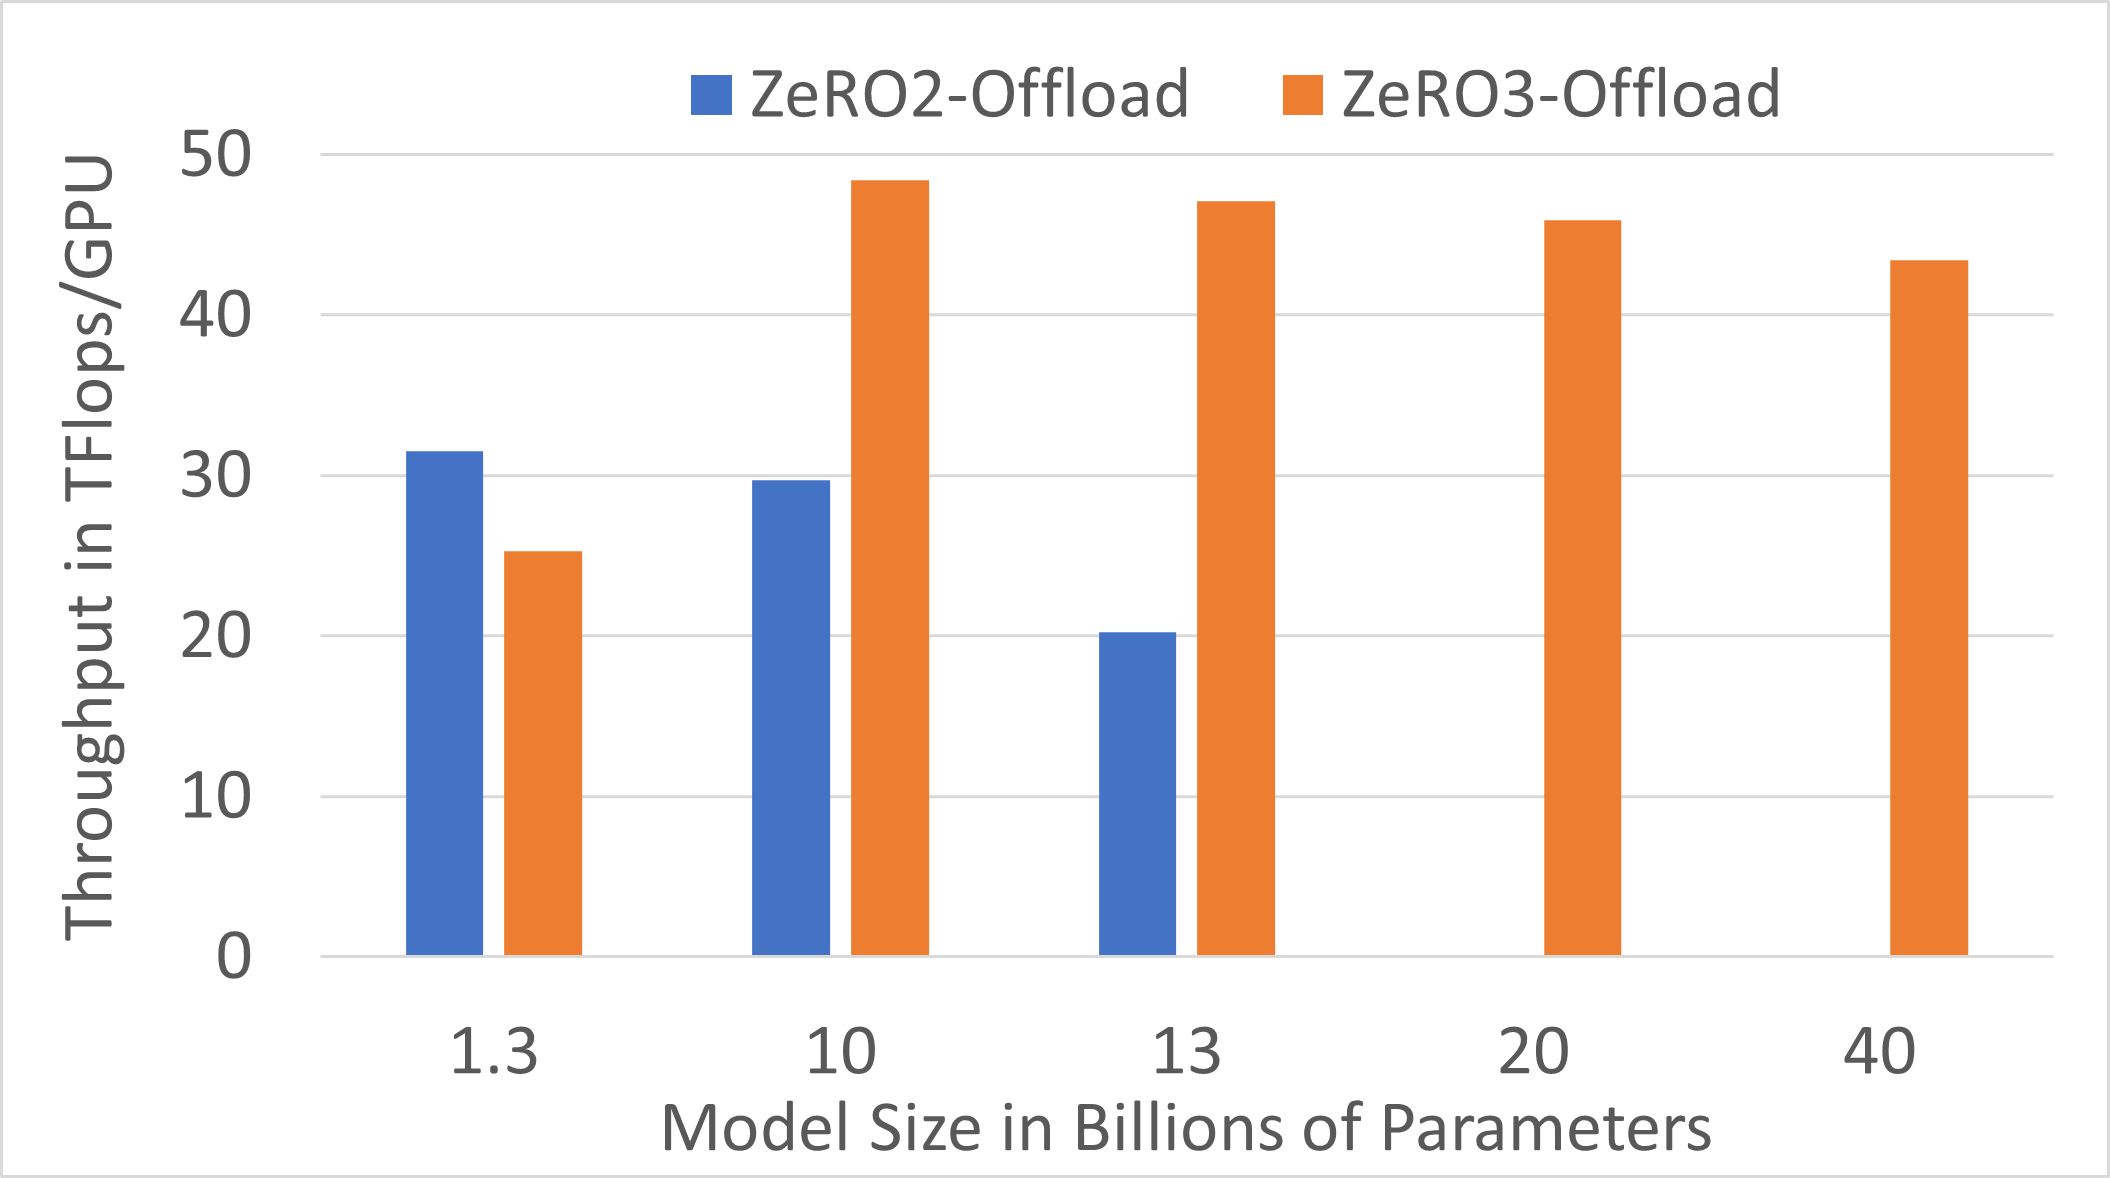
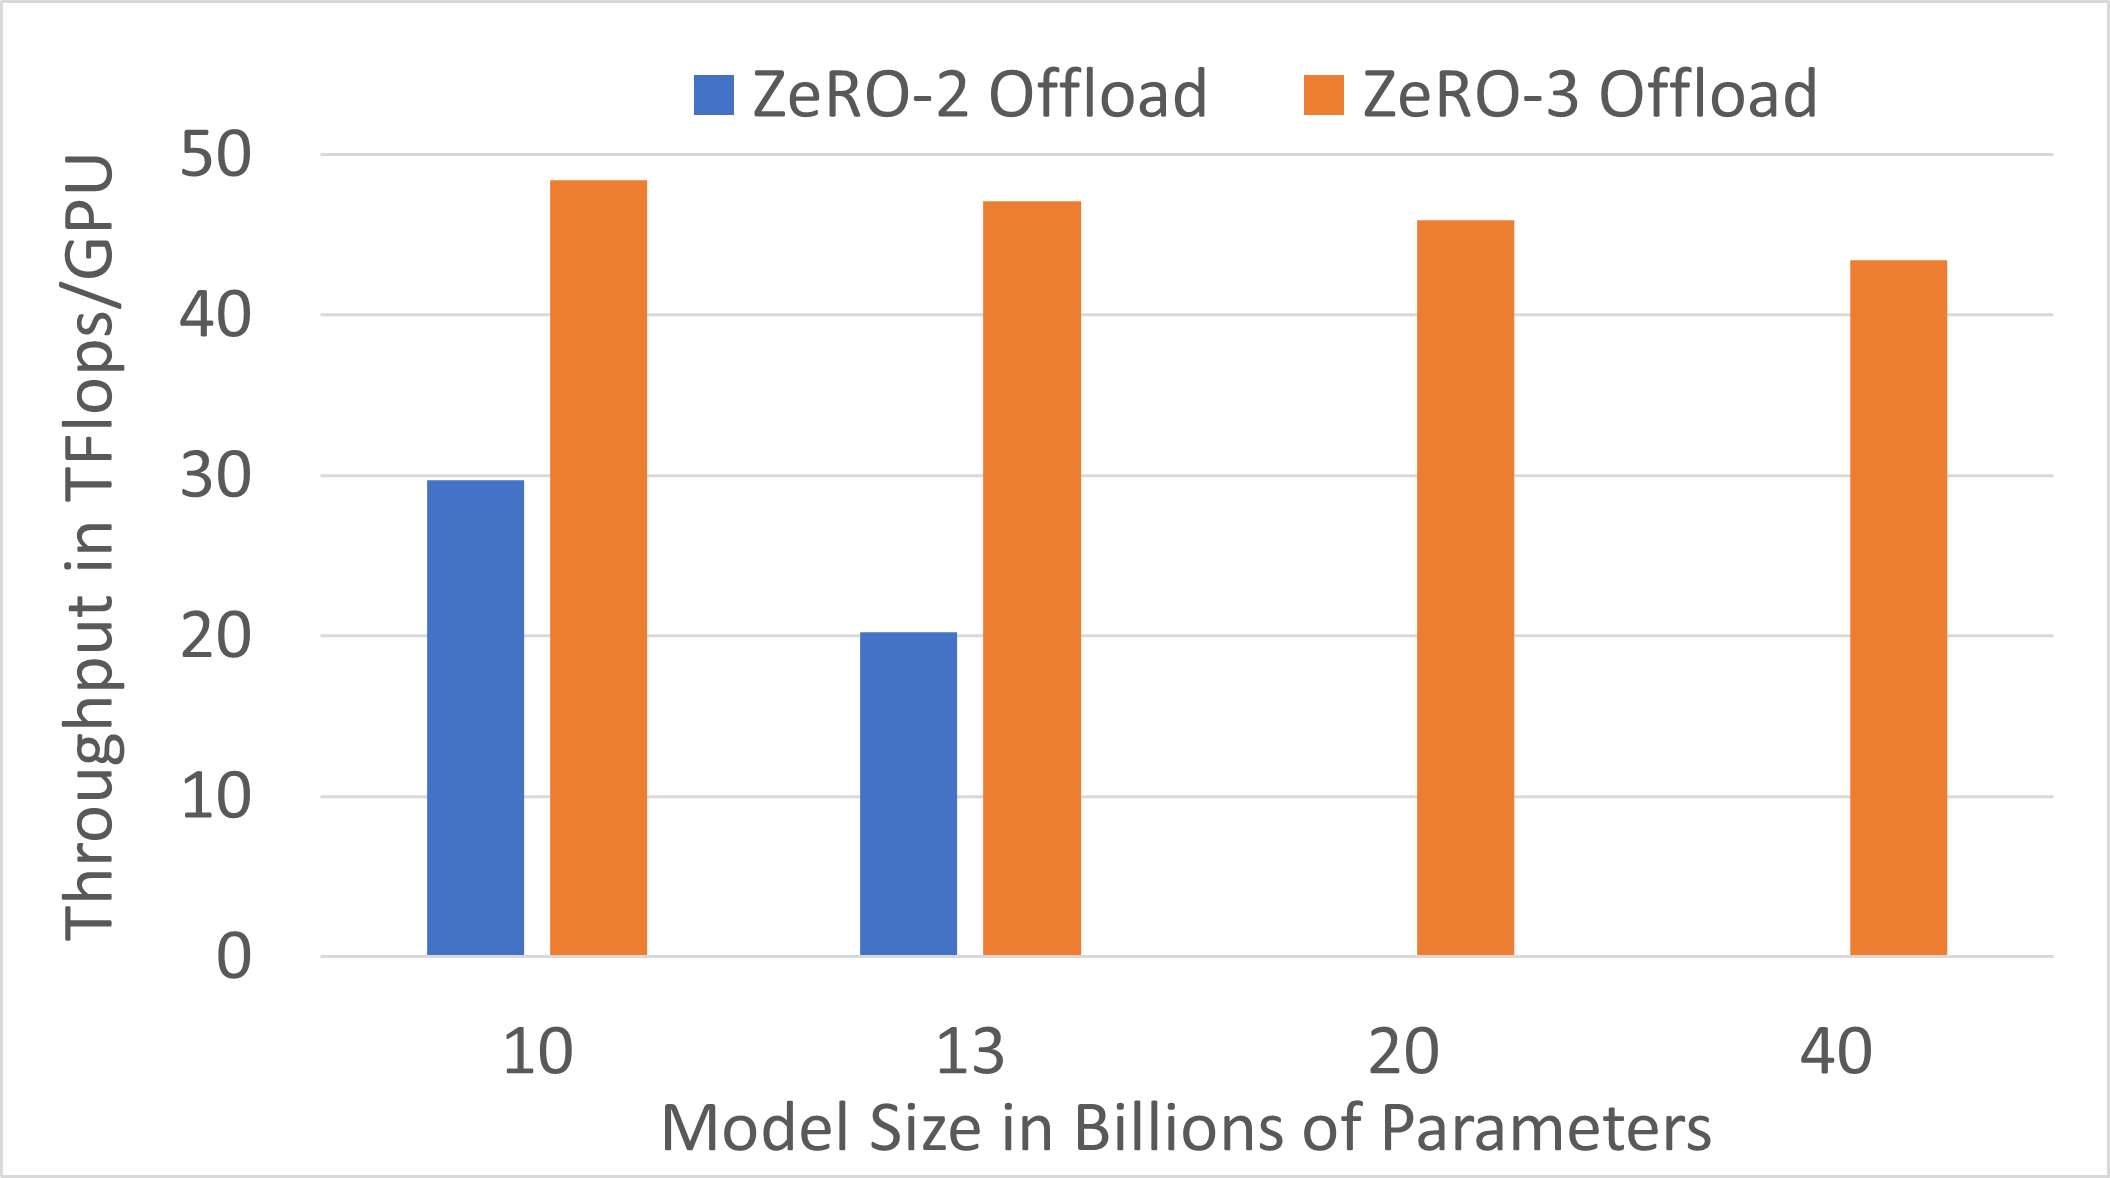
Single GPU text

diff --git a/docs/_posts/2021-03-08-zero3-offload.md b/docs/_posts/2021-03-08-zero3-offload.md
@@ -8,7 +8,7 @@ date: 2021-03-08 00:00:00
 ---
 Today we are announcing the release of ZeRO-3 Offload, a highly efficient and easy to use implementation of ZeRO Stage 3 and ZeRO Offload combined, geared towards our continued goal of democratizing AI by making efficient large-scale DL training available to everyone.  The key benefits of ZeRO-3 Offload are:
 
-* Unprecedented memory efficiency to run very large models on a limited number of GPU resources - e.g., fine-tune models with over 70B parameters on a single GPU and over 2 Trillion parameters on 512 GPUs!
+* Unprecedented memory efficiency to run very large models on a limited number of GPU resources - e.g., fine-tune models with over 40B parameters on a single GPU and over 2 Trillion parameters on 512 GPUs!
 * Extremely Easy to use:
     * Scale to over a trillion parameters without the need to combine multiple parallelism techniques in complicated ways.
     * For existing DeepSpeed users, turn on ZeRO-3 Offload with just a few flags in DeepSpeed Config file.
@@ -44,7 +44,7 @@ With today’s release of ZeRO-3 Offload, we are adding support for partitioning
 <h2>Unprecedented model scale</h2>
 Unlike ZeRO-2 and ZeRO-Offload where the parameters have to fit in the memory of a single GPU, ZeRO-3 Offload can partition the parameters across GPUs, and offload them to CPU, supporting model sizes that are much larger than the memory on a single GPU. Furthermore, ZeRO-3 Offload goes beyond the state-of-the-art hybrid 3D-parallelism (data, model and pipeline parallelism combined). While 3D Parallelism is limited by the aggregate GPU memory, ZeRO-3 Offload can exploit both GPU and CPU memory, the latter of which is much larger and cheaper compared to GPU memory. This allows ZeRO-3 Offload to train larger model sizes with the given GPU and CPU resources than any other currently available technology.
 
-<i>Model Scale on Single GPU</i>: ZeRO-3 Offload can train models with over 70B+ parameters efficiently on a single GPU (e.g., 32GB V100 GPU + 1.5TB CPU memory). This is 5x larger than what is possible with ZeRO-2 Offload, the current state-of-the art. 
+<i>Model Scale on Single GPU</i>: ZeRO-3 Offload can train models with over 40B parameters efficiently on a single GPU (e.g., 32GB V100 GPU + 1.5TB CPU memory). This is 5x larger than what is possible with ZeRO-2 Offload, the current state-of-the art. 
 
 <i>Model Scale on Multi-GPUs</i>: With ZeRO-3 Offload you can train a trillion and two trillion parameter models on NVIDIA 32GB V100 DGX-2 cluster with 256 GPUs and 512 GPUs, respectively. In contrast, the state-of-art 3D Parallelism requires 800 GPUs, and 1600 GPUs, respectively, to fit the same sized models. This represents a 3x reduction in GPUs required to fit models with over a trillion parameters.
 
@@ -70,27 +70,19 @@ Figure 2. ZeRO-3 Offload: Multi-billion and trillion parameter model throughput 
 ZeRO-3 Offload obtains high efficiency despite the 50% communication overhead of ZeRO Stage 3 compared to standard data parallel training for a fixed batch size. This is made possible through a communication overlap centric design and implementation, which allows ZeRO-3 Offload to hide nearly all of the communication volume with computation, while taking advantage of a larger batch size for improved efficiency resulting from better GPU memory efficiency.
 
 
-<i>Efficient multi-billion parameter training on a single node</i>: ZeRO-Offload also empowers 
-
-<a href="/assets/images/zero3-offload-16-v100.png">
-<img src="/assets/images/zero3-offload-16-v100.png">
-</a>
-Figure 3. Multi-billion parameter model training on 16 V100 GPUs
-
-
-<i>Efficient multi-billion parameter training on a single GPU</i>:
+<i>Efficient multi-billion parameter model training on a single GPU</i>: ZeRO-3 Offload further democratizes AI by enabling efficient training of multi-billion parameter models on a single GPU. For single GPU training, ZeRO-3 Offload provides benefits over ZeRO-2 Offload along two dimensions. First, ZeRO-3 Offload increases the size of models trainable on a single V100 from 13B to 40B. Second, for ZeRO-3 Offload provides speedups (e.g., 2.3X for 13B) compared to ZeRO-2 Offload for model sizes trainable by both solutions. These results are summarized in Figure 3.      
 
 <a href="/assets/images/zero3-offload-1-v100.png">
 <img src="/assets/images/zero3-offload-1-v100.png">
 </a>
-Figure 4. Multi-billion parameter model training on one V100 GPU
+Figure 3. Multi-billion parameter model training on one V100 GPU
 
-<i>Super-Linear scalability across GPUs</i>: Additionally, ZeRO-3 Offload also preserves the super-linear scalability characteristics that we have demonstrated with all our previous ZeRO technologies (ZeRO Stage 1, ZeRO Stage 2 and ZeRO Offload). ZeRO-3 Offload can exploit the aggregate PCI-E bandwidth between GPU and CPU across all the GPUs in multi-GPU training configuration, and at the same time, it can also exploit the aggregate CPU compute across all the nodes. As a result, the CPU-GPU-CPU communication time as well as the optimizer update time decreases linearly with number of GPUs and nodes, respectively, allowing ZeRO-3 Offload to exhibit super-linear scaling (see Figure 3).
+<i>Super-Linear scalability across GPUs</i>: Additionally, ZeRO-3 Offload also preserves the super-linear scalability characteristics that we have demonstrated with all our previous ZeRO technologies (ZeRO Stage 1, ZeRO Stage 2 and ZeRO Offload). ZeRO-3 Offload can exploit the aggregate PCI-E bandwidth between GPU and CPU across all the GPUs in multi-GPU training configuration, and at the same time, it can also exploit the aggregate CPU compute across all the nodes. As a result, the CPU-GPU-CPU communication time as well as the optimizer update time decreases linearly with number of GPUs and nodes, respectively, allowing ZeRO-3 Offload to exhibit super-linear scaling (see Figure 4).
 
 <a href="/assets/images/zero3-offload-200B-scalability.png">
 <img src="/assets/images/zero3-offload-200B-scalability.png">
 </a>
-Figure 5. ZeRO-3 Offload Superlinear Scalability for a 200B parameter model.
+Figure 4. ZeRO-3 Offload Superlinear Scalability for a 200B parameter model.
 
 <h2>How to use ZeRO-3 Offload</h2>
 As with many other existing DeepSpeed features, once the user model has been converted to use DeepSpeed, enabling ZeRO-3 Offload is as easy as turning on a couple of flags in DeepSpeed Config file. Supporting advanced features like weight sharing, or enabling extremely large models that requires to be partitioned across GPUs/nodes to fit in GPU/CPU memory, can be done with just a couple of additional lines of code change using the ZeRO-3 Offload API. 
